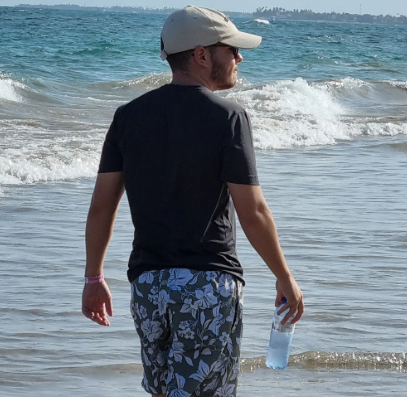
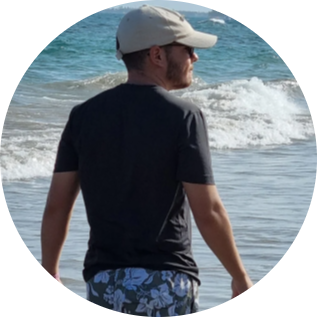
Novas modificações/adicional de tabela

diff --git a/web_design/index.html b/web_design/index.html
@@ -4,10 +4,33 @@
     <meta charset="UTF-8">
     <meta name="viewport" content="width=device-width, initial-scale=1.0">
     <title>Criação do Primeiro site</title>
+
+    <style>
+  body {
+    text-align: center; /* Centraliza todo o texto e elementos como imagens */
+    max-width: 800px;   /* Limita a largura máxima do site */
+    margin: 0 auto;     /* Garante que o bloco inteiro fique no meio da tela */
+    font-family: Arial, sans-serif; /* Dica extra: deixa a fonte mais bonita! */
+  }
+
+  /* Adicione esta parte abaixo para corrigir as listas */
+  ul, ol {
+    display: inline-block; /* Transforma a lista num bloco que obedece o centro */
+    text-align: left;      /* Mantém o texto alinhado com as bolinhas/números */
+  } /* <-- AQUI: Faltava essa chave para fechar a regra da lista! */
+
+  table {
+    margin: 0 auto;    /* Centraliza a tabela na página */
+    text-align: left;  /* Alinha o texto das colunas à esquerda */
+  }
+</style>
+
 </head>
 <body>
 
-    <img src ="/web_design/img/natan.png" alt style =" width:25%;" alt = "uma pessoa andando na praita"> 
+
+    <img src ="/web_design/img/natan.png" alt style =" width:15%;" 
+    alt = "uma pessoa andando na praita"> 
 
     <!--O (img) serve para colocar imagens no html, mas tem que ta na pasto img dentro da pasta do index.html-->
     <!--O alt style serve com o comando em "width: 50%:" para modificar o tamanho da imagem no site-->
@@ -32,10 +55,30 @@
             <li>Aprender algo novo</li>
         </ol>
 
+    <h2>Experiencias</h2>
+        <table> <!--(table)Representa dados tabulares/tabela bidimensional composto por linha e coluna-->
+            <thead> <!--(thead)encapsula um conjunto de linhas de tabela-->
+                <tr> <!-- (tr)Define uma célula de uma tabela que contém dados-->
+                    <th>Datas</th> <!--(th) define uma célula cabeçalho do grupo grupos de células de sua tabela-->
+                    <th>Experiencia</th>
+                </tr>
+            </thead>
+            <tbody> <!--Encapsula um conjuto de linhas de tabela, indicando que elas compõem o corpo dos dados(principal)-->
+                <tr>
+                    <td>2024 a 2026</td> <!--define uma célula de uma tabela que contém dados e pode ser usado como filho do elemento-->
+                    <td>Graduando em Ciencia da computação</td>
+                </tr>
+                <tr>
+                    <td>2025/1 a 2025/2</td>
+                    <td>Curso de back-end da softex(atual aponti)</td>
+                </tr>
+            </tbody>
+        </table>
+        
     <a href="https://www.linkedin.com/in/natan-malta-080643299/" target ="_blank">Linkedin</a>  <!--A tag (a) serve para ancorar um site-->
    <!--E o (target = "_blanck") serve para abrir o site em outra aba, vez de abrir no proprio siter-->
-
-   <h1><a href="/web_design/contato/contato.html" target="_blank"> Entre em contato</a></h1>
+        <br>
+   <a href="/web_design/contato/contato.html" target="_blank"> Entre em contato</a>
 
 
 </body>